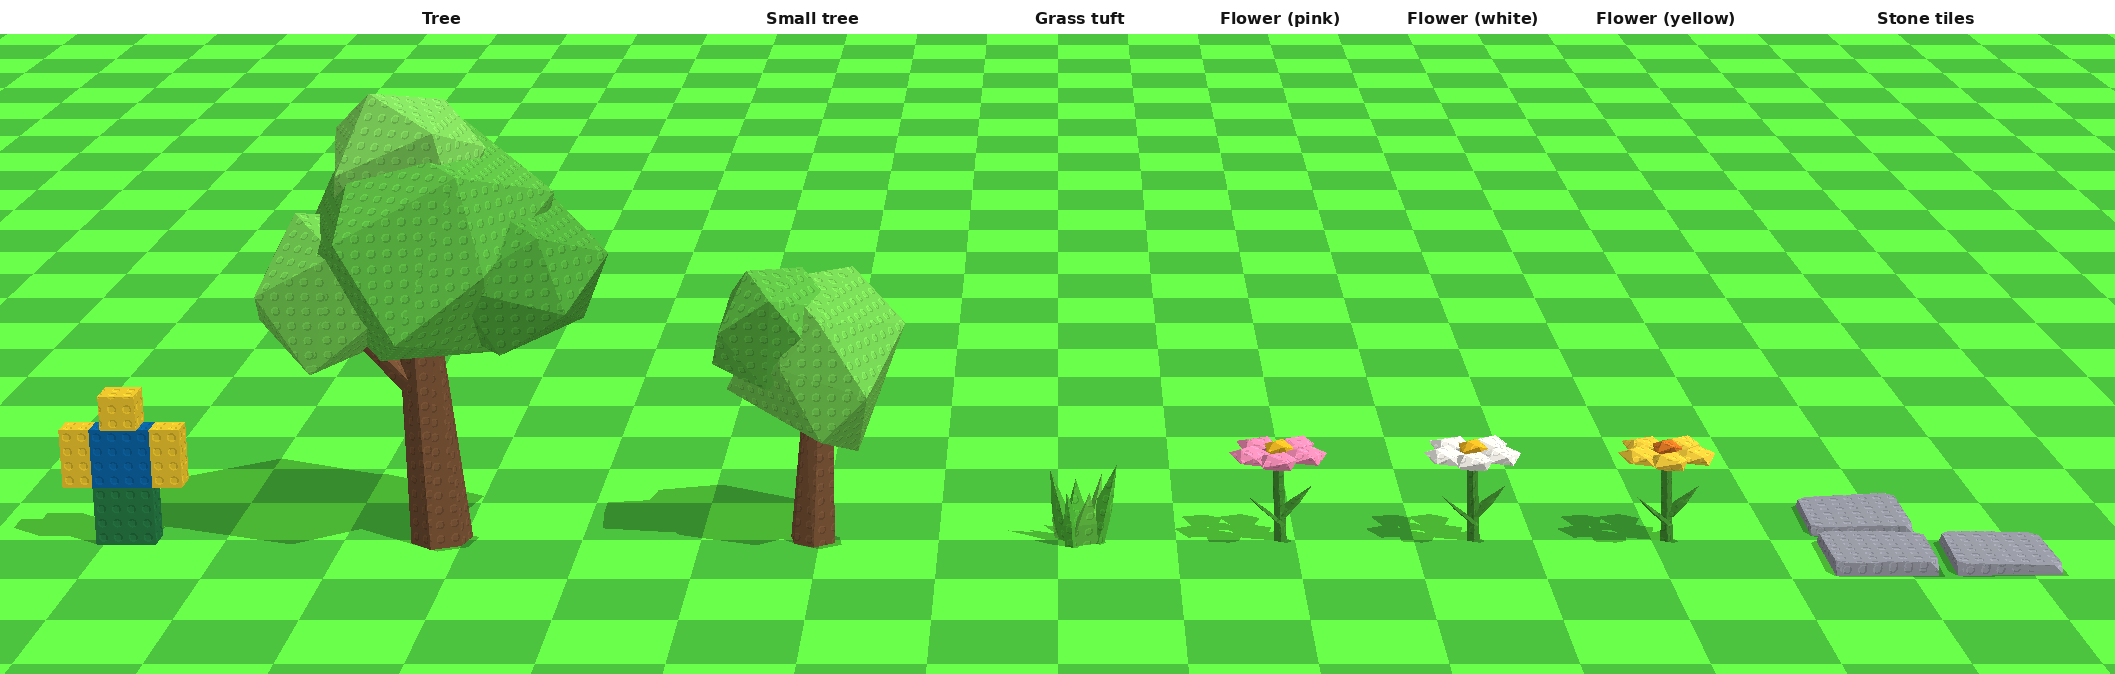
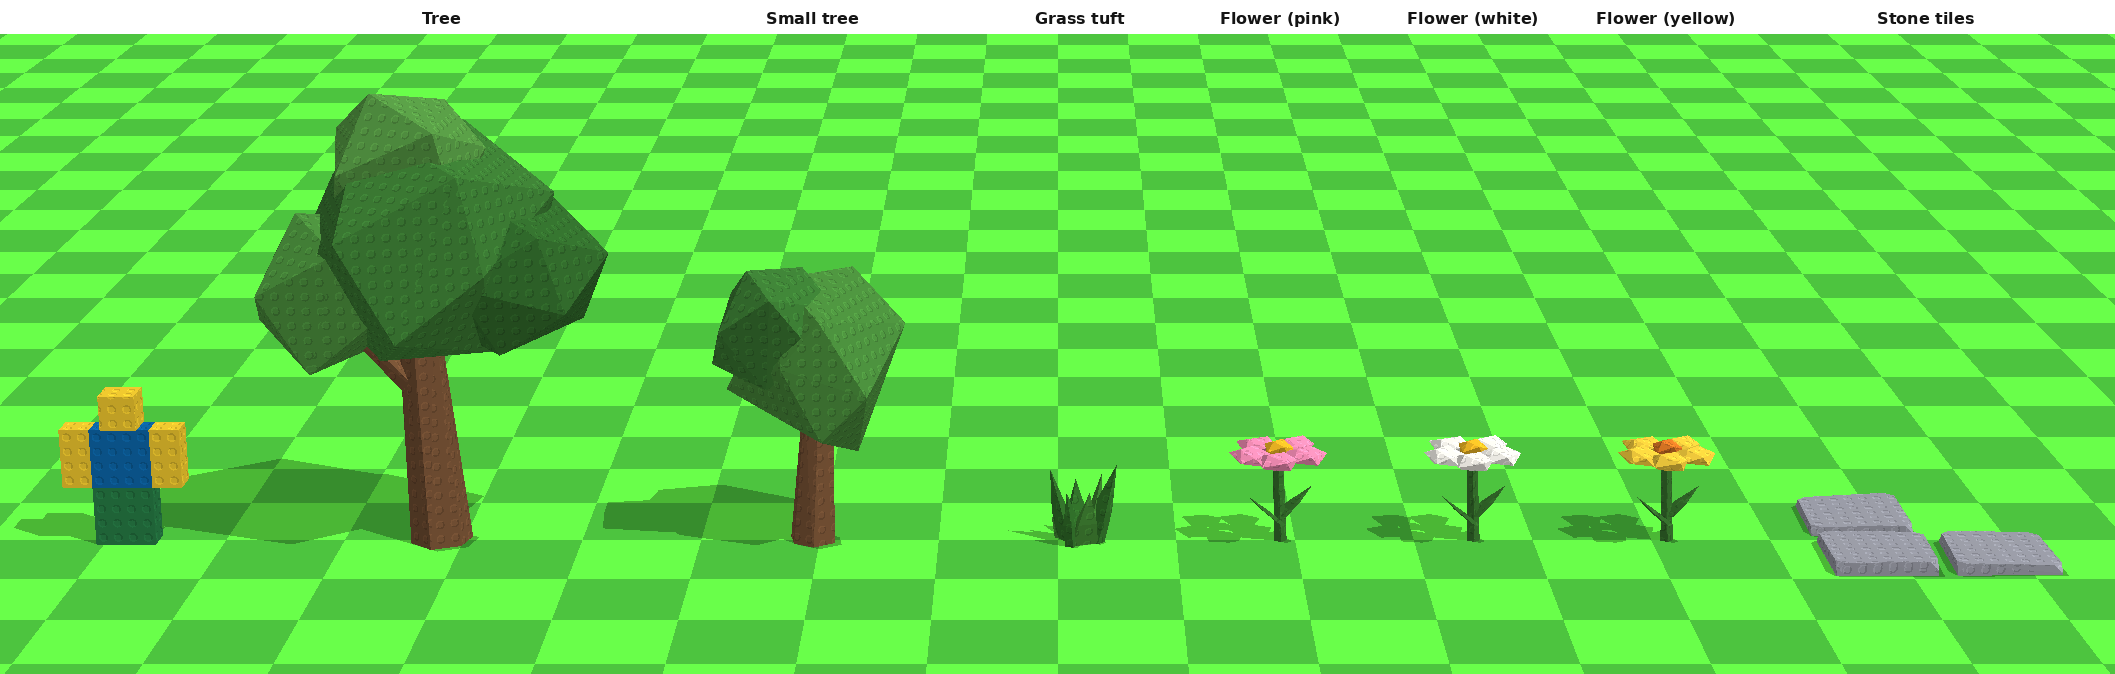
Plants: canopy, grass tufts and stems in darker forest/moss greens (QM)
Claude-Session: https://claude.ai/code/session_01G2z5FpwRjkqyYaAUWYgk7A

diff --git a/tools/plant_meshes.py b/tools/plant_meshes.py
@@ -29,9 +29,9 @@ from rock_meshes import hull_tris, write_obj, as_parts, font  # noqa: E402
 OUT = os.path.join(HERE, "..", "design", "plants")
 
 TRUNK = (124, 86, 56)
-LEAF = [(98, 196, 72), (120, 214, 86), (86, 178, 64), (134, 224, 98)]  # canopy shades
-GRASS = [(84, 192, 60), (112, 218, 78)]
-STEM = (70, 150, 52)
+LEAF = [(62, 128, 54), (76, 144, 62), (52, 112, 46), (88, 156, 70)]  # canopy shades: forest/moss green (QM, Oct 12)
+GRASS = [(54, 122, 46), (70, 142, 56)]  # moss green (QM)
+STEM = (58, 120, 48)
 PETALS = {"Pink": (255, 148, 190), "White": (250, 248, 240), "Yellow": (255, 214, 64)}
 CENTRE = (255, 196, 40)
 CENTRE_ON_YELLOW = (236, 128, 40)
